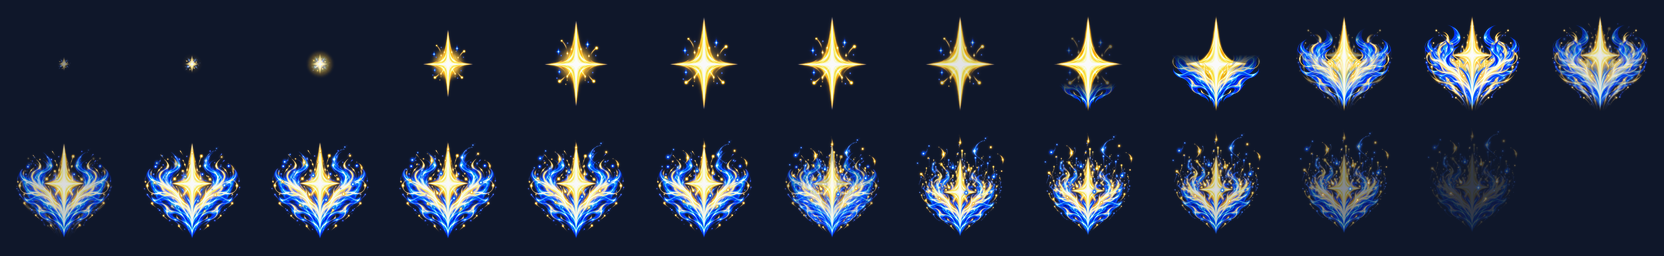
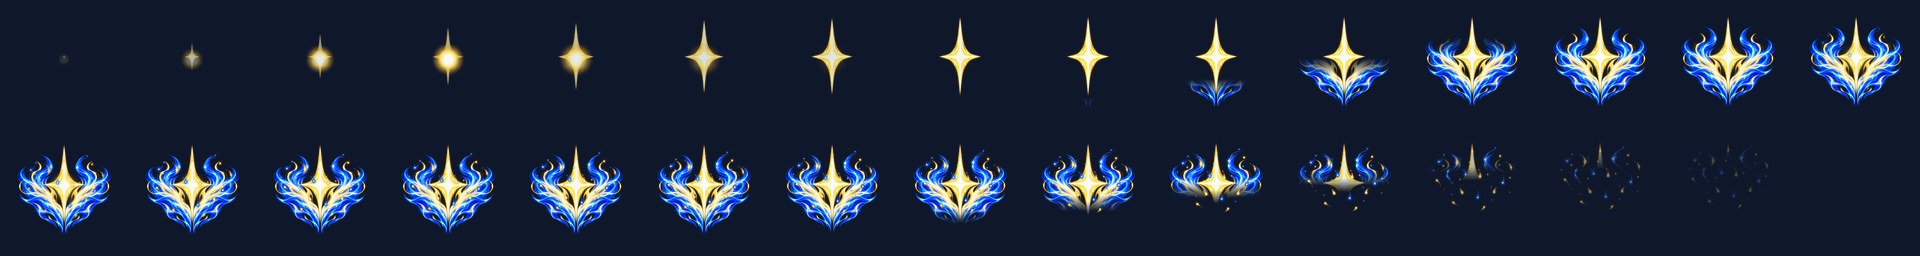
Chakra Overflow animation v2: layers only, continuous motion (no key-pose cross-fades)
Claude-Session: https://claude.ai/code/session_01BK7FehqLqgE1qdDYPV9z98

diff --git a/art/jutsu_icons/chakra_overflow/animation/build_strip.py b/art/jutsu_icons/chakra_overflow/animation/build_strip.py
@@ -1,83 +1,105 @@
 #!/usr/bin/env python3
-"""Assemble the Chakra Overflow cast animation from the art director's keys and layers (route A).
+"""Assemble the Chakra Overflow cast animation from the art director's layers (route A), v2.
 
     python3 art/jutsu_icons/chakra_overflow/animation/build_strip.py [--frames N] [--size PX] [--preview DIR]
 
-Inputs: raws/anim_co_K1..K5.png (key poses) and raws/anim_co_L1_star, L2_wings, L3_flash, L4_sparks (layers), all
-1254 px transparent PNGs registered on one center. Output: exports/anim_chakra_overflow_v1.webp, a vertical strip of
-square frames (the game's ANIMATION format; libs/threejs/util.ts showAnimation), intended at 50 ms per frame.
-Beats (docs/handoffs/CHAKRA_OVERFLOW_ANIMATION_ART_REQUEST.md section 4): ignition, star flare, wings rise, overflow,
-release.
+v2 (director, 2026-10-23: "not smooth enough. The shapes seem to change size/shift"): v1 cross-faded between the key
+poses K2-K5, which are separate drawings whose star differs in size, proportion and height from the star layer, so the
+shapes jumped. v2 animates ONE star (L1) and ONE pair of wings (L2) on continuous, monotonic curves for the whole run,
+with the flash (L3) and sparks (L4) on top. The key poses K1-K5 are kept as the timing and look reference only.
+
+Final pose: wings at 0.98 scale, star narrowed to match the slimmer star of K4 (x 0.84*0.80, y 0.84) and raised 90 px
+(1254 px space), as measured against K4. Output: exports/anim_chakra_overflow_v1.webp, a vertical strip of square frames
+(libs/threejs/util.ts showAnimation), intended speed = 1300 ms / frames.
 """
 import argparse, os
 import numpy as np
 from PIL import Image
 
 HERE = os.path.dirname(os.path.abspath(__file__))
-W = 512            # working canvas
-FIT = 0.80         # whole composition scaled into the central 80% so the rise and sparks stay inside the frame
+SRC = 1254          # raw canvas
+W = 512             # working canvas
+FIT = 0.80          # composition scaled into the central 80% so the rise and sparks stay inside the frame
+U = W * FIT / SRC   # raw-pixel to working-pixel factor
+
+STAR_SX, STAR_SY, STAR_DY = 0.84 * 0.80, 0.84, -90   # final star, measured against K4
+WING_S, WING_DY = 0.98, 10
+
 
 def load(name):
-    im = Image.open(os.path.join(HERE, 'raws', name)).convert('RGBA')
-    return im.resize((int(W * FIT), int(W * FIT)), Image.LANCZOS)
+    return Image.open(os.path.join(HERE, 'raws', name)).convert('RGBA')
+
 
 def ease_out(t): return 1 - (1 - t) ** 3
-def ease_in_out(t): return 3 * t * t - 2 * t ** 3
+def ease_in_out(t): return t * t * (3 - 2 * t)
 def seg(t, a, b): return min(1.0, max(0.0, (t - a) / (b - a)))
 
-def place(canvas, layer, scale=1.0, alpha=1.0, dy=0, reveal=None):
-    """Composite `layer` centered (plus dy), scaled and faded; `reveal` 0..1 uncovers it from the bottom up."""
-    if alpha <= 0.003 or scale <= 0.01:
+
+def place(canvas, layer, sx, sy, alpha=1.0, dy=0.0, keep_from=None, keep_to=None):
+    """Composite `layer` centered, scaled (sx, sy relative to the raw canvas), faded and shifted by dy raw pixels.
+
+    keep_from / keep_to: 0..1 fractions of the layer's height (0 = top). Only the band between them is kept, with soft
+    edges, which reveals the wings bottom-up and dissolves the emblem bottom-up without moving anything."""
+    if alpha <= 0.003:
         return
-    sz = max(1, int(layer.width * scale))
-    im = layer.resize((sz, sz), Image.LANCZOS)
-    a = np.asarray(im).astype(np.float32)
+    w, h = max(1, round(SRC * sx * U)), max(1, round(SRC * sy * U))
+    a = np.asarray(layer.resize((w, h), Image.LANCZOS)).astype(np.float32)
     a[..., 3] *= alpha
-    if reveal is not None and reveal < 1:
-        h = a.shape[0]
+    if keep_from is not None or keep_to is not None:
         y = np.arange(h, dtype=np.float32)[:, None] / h
-        edge = 1.05 - reveal * 1.1                     # reveal line moves from bottom to top
-        a[..., 3] *= np.clip((y - edge) / 0.18, 0, 1)
-    im = Image.fromarray(a.astype(np.uint8), 'RGBA')
-    canvas.alpha_composite(im, (W // 2 - sz // 2, W // 2 - sz // 2 + int(dy)))
+        soft = 0.16
+        m = np.ones_like(y)
+        if keep_from is not None:
+            m = m * np.clip((y - keep_from) / soft + 0.5, 0, 1)
+        if keep_to is not None:
+            m = m * np.clip((keep_to - y) / soft + 0.5, 0, 1)
+        a[..., 3] *= m
+    im = Image.fromarray(a.clip(0, 255).astype(np.uint8), 'RGBA')
+    x = W // 2 - w // 2
+    yy = W // 2 - h // 2 + round(dy * U)
+    canvas.alpha_composite(im, (x, yy))
+
 
 def build(n_frames):
-    K = {k: load(f'anim_co_K{k}.png') for k in range(1, 6)}
     star, wings, flash, sparks = (load(f) for f in ('anim_co_L1_star.png', 'anim_co_L2_wings.png',
                                                      'anim_co_L3_flash.png', 'anim_co_L4_sparks.png'))
     frames = []
     for i in range(n_frames):
         t = i / (n_frames - 1)
         c = Image.new('RGBA', (W, W), (0, 0, 0, 0))
-        # 1 ignition (0-0.12): K1 grows in, flash builds
-        a1 = (0.55 + 0.45 * ease_out(seg(t, 0.0, 0.06))) * (1 - seg(t, 0.10, 0.18))
-        place(c, K[1], 0.7 + 0.5 * seg(t, 0.0, 0.12), a1)
-        fl = np.exp(-((t - 0.13) / 0.06) ** 2) + 0.35 * np.exp(-((t - 0.55) / 0.06) ** 2)
-        place(c, flash, 0.25 + 0.45 * seg(t, 0.02, 0.2), min(1, fl))
-        # 2 star flare (0.08-0.30): the star snaps open
-        s2 = ease_out(seg(t, 0.08, 0.24))
-        a_star = seg(t, 0.08, 0.12) * (1 - seg(t, 0.44, 0.52))
-        place(c, K[2], 0.35 + 0.65 * s2, a_star * (1 - seg(t, 0.26, 0.36)))
-        place(c, star, 0.35 + 0.65 * s2, a_star * seg(t, 0.24, 0.32))
-        # 3 wings rise (0.22-0.48): wings sweep up from below, uncovered bottom-up
-        r3 = ease_in_out(seg(t, 0.22, 0.46))
-        place(c, wings, 0.88 + 0.12 * r3, seg(t, 0.22, 0.28) * (1 - seg(t, 0.44, 0.52)), dy=40 * (1 - r3), reveal=r3)
-        place(c, K[3], 1.0, seg(t, 0.36, 0.44) * (1 - seg(t, 0.46, 0.54)))
-        # 5 release (0.72-1.0): K5 takes over, lifts and dissolves upward
-        r5 = seg(t, 0.72, 1.0)
-        place(c, K[5], 1.0 + 0.04 * r5, seg(t, 0.72, 0.76) * (1 - ease_in_out(seg(t, 0.84, 1.0))), dy=-36 * r5)
-        # 4 overflow (0.46-0.74): the full emblem, a breath of pulse, sparks streaming up
-        pulse = 1.0 + 0.03 * np.sin(seg(t, 0.5, 0.74) * np.pi)
-        a4 = seg(t, 0.46, 0.54) * (1 - seg(t, 0.75, 0.79))
-        place(c, K[4], pulse, a4)
-        sp = seg(t, 0.50, 1.0)
-        place(c, sparks, 1.0 + 0.08 * sp, seg(t, 0.50, 0.58) * (1 - seg(t, 0.86, 1.0)), dy=-70 * sp)
+        # release (0.66-1.0): the emblem rises steadily and dissolves from the bottom up
+        rel = seg(t, 0.66, 1.0)
+        rise = -34 * rel
+        gone = rel                                    # 0 -> 1: dissolve line climbs steadily from the bottom to the top
+        fade = 1 - ease_in_out(seg(t, 0.84, 1.0))
+
+        # wings (0.20-0.50): uncovered from the bottom up while settling 40 px into place; never rescaled
+        wr = ease_in_out(seg(t, 0.20, 0.50))
+        if wr > 0:
+            place(c, wings, WING_S, WING_S, alpha=seg(t, 0.20, 0.30) * fade,
+                  dy=WING_DY + 40 * (1 - ease_out(seg(t, 0.20, 0.50))) + rise,
+                  keep_from=1.08 - wr * 1.2, keep_to=1.1 - gone * 1.25)
+
+        # star (0.00-0.30): one continuous grow from a point to the final size, fixed center
+        g = 0.06 + 0.94 * ease_out(seg(t, 0.0, 0.30))
+        place(c, star, STAR_SX * g, STAR_SY * g, alpha=min(1, 0.4 + 2.4 * t) * fade,
+              dy=STAR_DY + rise, keep_to=1.1 - max(0, gone - 0.15) * 1.3)
+
+        # flash: ignition burst, then a soft swell when the wings complete
+        fl = np.exp(-((t - 0.10) / 0.07) ** 2) + 0.30 * np.exp(-((t - 0.50) / 0.07) ** 2)
+        fs = 0.18 + 0.30 * ease_out(seg(t, 0.0, 0.18))
+        place(c, flash, fs, fs, alpha=min(1.0, fl), dy=STAR_DY * 0.6)
+
+        # sparks (0.44-1.0): stream upward at a constant speed, fade in and out
+        sp = seg(t, 0.44, 1.0)
+        place(c, sparks, 0.95, 0.95, alpha=seg(t, 0.44, 0.54) * (1 - seg(t, 0.86, 1.0)), dy=60 - 150 * sp)
         frames.append(c)
     return frames
 
+
 def main():
     ap = argparse.ArgumentParser()
-    ap.add_argument('--frames', type=int, default=26)
+    ap.add_argument('--frames', type=int, default=30)
     ap.add_argument('--size', type=int, default=128)
     ap.add_argument('--preview')
     a = ap.parse_args()
@@ -88,7 +110,8 @@ def main():
     os.makedirs(os.path.join(HERE, 'exports'), exist_ok=True)
     out = os.path.join(HERE, 'exports', 'anim_chakra_overflow_v1.webp')
     strip.save(out, 'WEBP', lossless=True, method=6)
-    print(out, strip.size, os.path.getsize(out), 'bytes', f'{len(frames)} frames')
+    speed = round(1300 / len(frames))
+    print(out, strip.size, os.path.getsize(out), 'bytes', f'{len(frames)} frames, speed {speed} ms')
     if a.preview:
         bgs = [(15, 23, 42), (120, 150, 90), (230, 235, 240)]
         gif = []
@@ -102,13 +125,14 @@ def main():
                 row.paste(t.convert('RGB').resize((50, 50), Image.LANCZOS), (x, 45)); x += 62
             gif.append(row)
         gif[0].save(os.path.join(a.preview, 'anim_chakra_overflow_v1_preview.gif'), save_all=True,
-                    append_images=gif[1:], duration=50, loop=0)
-        n = len(frames); cols = 13
+                    append_images=gif[1:], duration=speed, loop=0)
+        n = len(frames); cols = 15
         sheet = Image.new('RGB', (cols * a.size, ((n + cols - 1) // cols) * a.size), (15, 23, 42))
         for i, f in enumerate(frames):
             t = Image.new('RGBA', f.size, (15, 23, 42, 255)); t.alpha_composite(f)
             sheet.paste(t.convert('RGB'), ((i % cols) * a.size, (i // cols) * a.size))
         sheet.save(os.path.join(a.preview, 'anim_chakra_overflow_v1_frames.png'))
+
 
 if __name__ == '__main__':
     main()

diff --git a/docs/handoffs/CHAKRA_OVERFLOW_ANIMATION_ART_REQUEST.md b/docs/handoffs/CHAKRA_OVERFLOW_ANIMATION_ART_REQUEST.md
@@ -105,3 +105,14 @@ transparent, plus a note of intended frame time. Claude Code keys, pads, scales 
   ceiling). That ceiling was set for keyed character sprites; a glow effect is semi-transparent by design, and the game's own
   stock animation it replaces scores 51% on the same check. Recorded as a validator gap for glow FX (a tooling fix is Lane A
   work), not an art defect.
+
+## 7. Revision 2: smoothness (director, 2026-10-23)
+
+Director: "not smooth enough. The shapes seem to change size/shift throughout the animation." Cause: v1 cross-faded
+between the key poses, which are separate drawings; the star in K4 is narrower and higher than the star layer L1 (L1 arms
+759 px wide against roughly 480 px in K4, core 58 px lower), so every hand-off made the star jump. Fix: `build_strip.py`
+v2 animates only the layers, one star and one pair of wings on continuous, monotonic curves (the star grows from a point
+at a fixed center; the wings are uncovered bottom-up while settling 40 px, never rescaled; the release dissolves bottom-up
+while rising). The star layer is narrowed to K4's proportions (x 0.672, y 0.84, raised 90 px), measured against K4.
+Result: 30 frames of 128 px, 197,002 bytes, intended speed 43 ms (1.3 s). Frame-by-frame check: horizontal center within
+0.5 px throughout, star size rises monotonically over frames 1-8, frames 12-20 hold exactly still.
